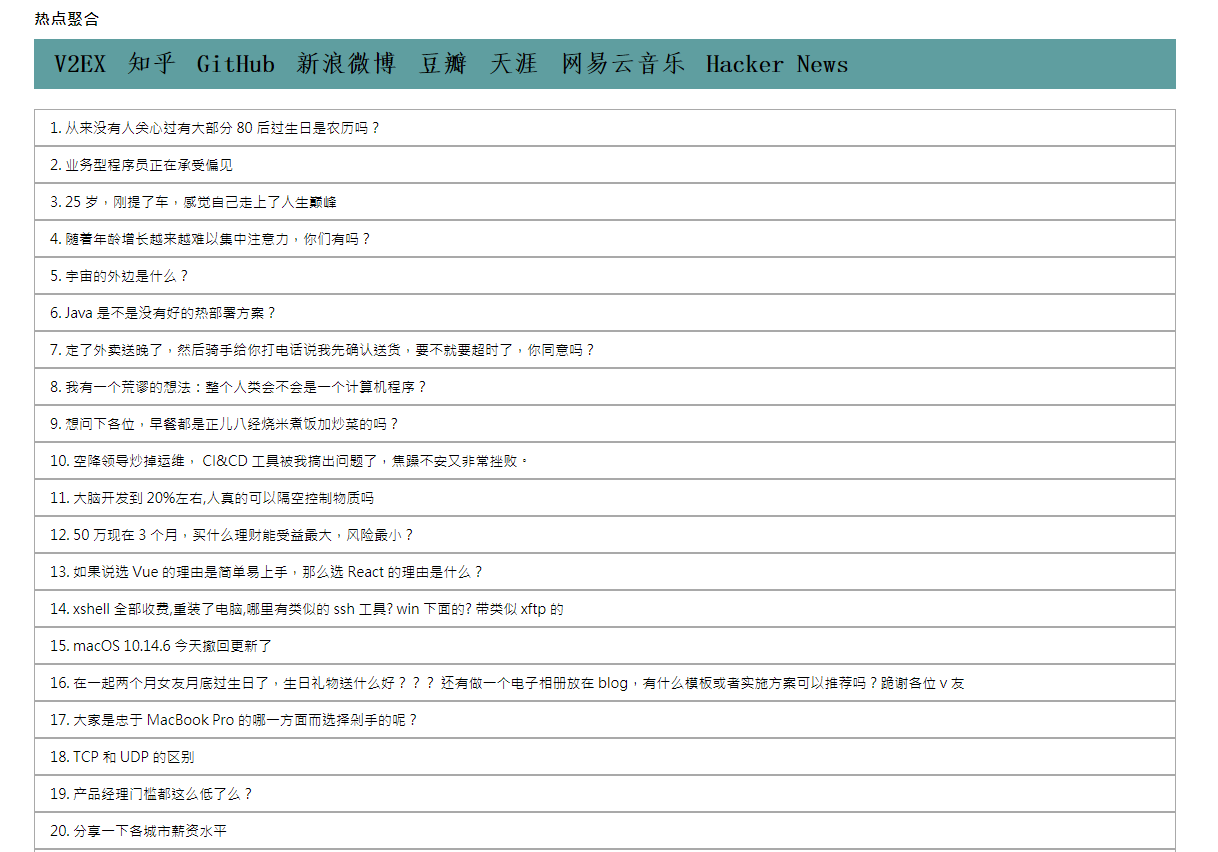
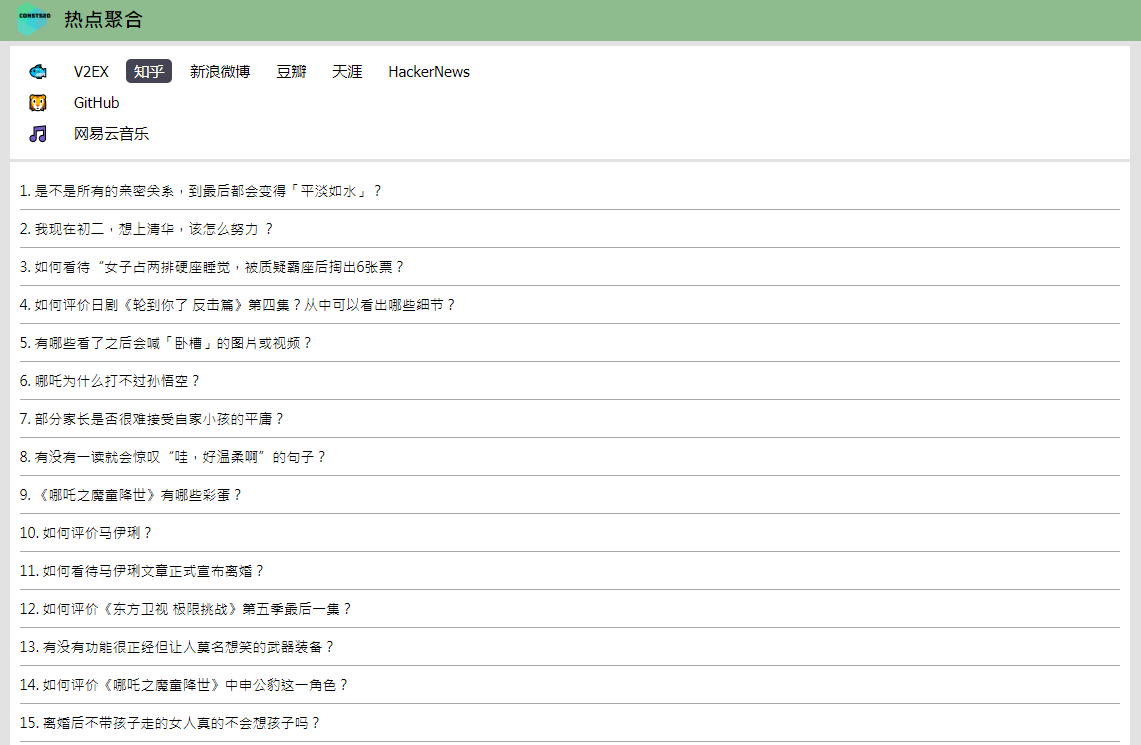
Update README

Changed region(s): [[0.0, 0.0, 1.0, 1.0]]

diff --git a/README.md b/README.md
@@ -1,9 +1,8 @@
 # Hot Crawler
 
+**const520 热点聚合**
 
-[Const520·热点聚合](http://hot.const520.com)
-
-汇集优质内容，轻松掌握热点话题。
+汇集热点内容，一站式阅读体验。
 
 ![网站首页图](home-page.png)
 
@@ -57,7 +56,7 @@
 
 部署
 
-- Nginx 代理
+- Nginx proxy
 - Spring Boot embedded server - Jetty
 
 ### 如何运行
@@ -87,15 +86,11 @@ $ mvn spring-boot:run
 
    ```
    #example
-   sites[0].id = 1
-   sites[0].name = example
-   sites[0].processorName: ExampleHotProcessor
-   sites[0].domain: https://example.com
-   sites[0].hotPageUrl: https://example.com/xxx
-   sites[0].hotApiUrl: xxx
-   sites[0].itemKey: xxx
+   cates[0].sites[0].id = 1
+   cates[0].sites[0].name = example
+   cates[0].sites[0].processorName: ExampleHotProcessor
    ```
-
+   
 2. 添加热点爬取处理器，如 hot-crawler/src/main/java/com/taogen/hotcrawler/commons/crawler/impl/ExampleHotProcessor.java
 
    ```java
